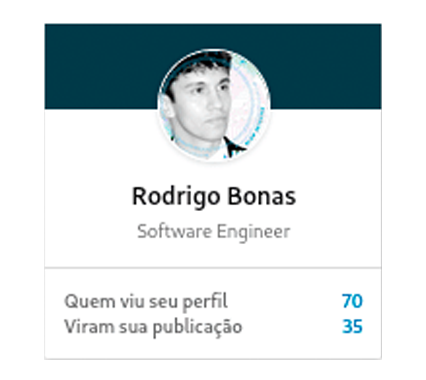
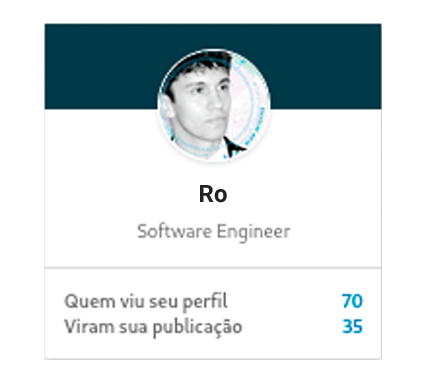
Updated links and user.

Changed region(s): [[0.3052, 0.4632, 0.7019, 0.5789]]

diff --git a/youtube/LinkedInClone/src/components/MobileHeader/index.tsx b/youtube/LinkedInClone/src/components/MobileHeader/index.tsx
@@ -5,7 +5,7 @@ import { Container, ProfileCircle, SearchInput, MessageIcon } from './styles';
 const MobileHeader: React.FC = () => {
   return (
     <Container>
-      <ProfileCircle src="https://github.com/BON4S.png" />
+      <ProfileCircle src="https://github.com/imtherouser.png" />
       <SearchInput placeholder="Pesquisar" />
       <MessageIcon />
     </Container>

diff --git a/youtube/LinkedInClone/src/components/DesktopHeader/index.tsx b/youtube/LinkedInClone/src/components/DesktopHeader/index.tsx
@@ -31,7 +31,7 @@ const DesktopHeader: React.FC = () => {
               <span>Notificações</span>
             </button>
             <button>
-              <ProfileCircle src="https://github.com/BON4s.png" />
+              <ProfileCircle src="https://github.com/imtherouser.png" />
               <span>
                 Eu <CaretDownIcon />
               </span>

diff --git a/youtube/LinkedInClone/src/components/LeftColumn/ProfilePanel/index.tsx b/youtube/LinkedInClone/src/components/LeftColumn/ProfilePanel/index.tsx
@@ -10,7 +10,7 @@ const ProfilePanel: React.FC = () => {
       <Container>
         <div className="profile-cover"></div>
         <img
-          src="https://github.com/BON4S.png"
+          src="https://github.com/imtherouser.png"
           alt="Avatar"
           className="profile-picture"
         />

diff --git a/readme.md b/readme.md
@@ -1,20 +1,24 @@
 <p align="center">
-  <a aria-label="MY_ROCKETSEAT_CODES" href="https://github.com/BON4S/MyRocketseatCodes#🚀">
+  <a aria-label="MY_ROCKETSEAT_CODES" href="https://github.com/imtherousers/MyRocketseatCodes#🚀">
     <img src="assets/MyRocketseatCodes.gif">
   </a>
 </p>
 
 <p align="center">
-  <a aria-label="MADE_BY_BON4S" href="https://github.com/BON4S/MyRocketseatCodes#🚀">
-    <img src="https://img.shields.io/badge/-MADE_BY_BON4S-7159c1?style=for-the-badge&labelColor=222222">
+  <a aria-label="MADE_BY_imtherousers" href="https://github.com/imtherousers/MyRocketseatCodes#🚀">
+    <img src="https://img.shields.io/badge/-MADE_BY_imtherousers-7159c1?style=for-the-badge&labelColor=222222">
   </a>
   <a aria-label="LESSONS_FROM_ROCKETSEAT" href="https://rocketseat.com.br/#🚀">
     <img alt="" src="https://img.shields.io/badge/LESSONS_FROM-Rocketseat_🚀-7159c1?style=for-the-badge&labelColor=222222">
   </a>
 </p>
 
+<br />
+
+<h3>This repository contains codes developed by the "imtherouser" through the content provided by the Rocketseat company.</h3>
+
 <p align="center">
-  <a aria-label="__dotted_line__" href="https://github.com/BON4S/MyRocketseatCodes#🚀">
+  <a aria-label="__dotted_line__" href="https://github.com/imtherousers/MyRocketseatCodes#🚀">
     <img src="assets/dotted-purple-line.png">
   </a>
 </p>
@@ -78,7 +82,7 @@
 </table>
 
 <p align="center">
-  <a aria-label="__dotted_line__" href="https://github.com/BON4S/MyRocketseatCodes#🚀">
+  <a aria-label="__dotted_line__" href="https://github.com/imtherousers/MyRocketseatCodes#🚀">
     <img src="assets/dotted-purple-line.png">
   </a>
 </p>
@@ -115,7 +119,7 @@
 </table>
 
 <p align="center">
-  <a aria-label="__dotted_line__" href="https://github.com/BON4S/MyRocketseatCodes#🚀">
+  <a aria-label="__dotted_line__" href="https://github.com/imtherousers/MyRocketseatCodes#🚀">
     <img src="assets/dotted-purple-line.png">
   </a>
 </p>
@@ -152,7 +156,7 @@
 </table>
 
 <p align="center">
-  <a aria-label="__dotted_line__" href="https://github.com/BON4S/MyRocketseatCodes#🚀">
+  <a aria-label="__dotted_line__" href="https://github.com/imtherousers/MyRocketseatCodes#🚀">
     <img src="assets/dotted-purple-line.png">
   </a>
 </p>
@@ -189,14 +193,14 @@
 </table>
 
 <p align="center">
-  <a aria-label="__dotted_line__" href="https://github.com/BON4S/MyRocketseatCodes#🚀">
+  <a aria-label="__dotted_line__" href="https://github.com/imtherousers/MyRocketseatCodes#🚀">
     <img src="assets/dotted-purple-line.png">
   </a>
 </p>
 
 ### 🟪 Useful Links
 
-↳ [Rocketseat - Me on Rocketseat's social network](https://app.rocketseat.com.br/me/bonas#🚀)
+↳ [Rocketseat - Me on Rocketseat's social network](https://app.rocketseat.com.br/me/imtherouser#🚀)
 
 ↳ [Rocketseat - Main page](https://rocketseat.com.br/#🚀)
 

diff --git a/bootcamp/GoStack11/GoBarber/readme.md b/bootcamp/GoStack11/GoBarber/readme.md
@@ -1,5 +1,5 @@
 <p align="center">
-  <a href="https://github.com/BON4S/bootcamp/GoStack11/GoBarber#🚀">
+  <a href="https://github.com/imtherouser/bootcamp/GoStack11/GoBarber#🚀">
     <img src="screenshots/GoBarber-banner.png">
   </a>
 </p>
@@ -68,13 +68,13 @@
 ### 🎓 Original GoBarber
 
 <p align="center">
-  <a href="https://github.com/BON4S/bootcamp/GoStack11/GoBarber#🚀">
+  <a href="https://github.com/imtherouser/bootcamp/GoStack11/GoBarber#🚀">
     <img src="screenshots/GoBarber-Screenshot-01.gif">
   </a>
 </p>
 
 <p align="center">
-  <a href="https://github.com/BON4S/bootcamp/GoStack11/GoBarber#🚀">
+  <a href="https://github.com/imtherouser/bootcamp/GoStack11/GoBarber#🚀">
     <img src="screenshots/GoBarber-Screenshot-02.png">
   </a>
 </p>
@@ -82,7 +82,7 @@
 ### 🎓 My steampunk login design on Figma
 
 <p align="center">
-  <a href="https://github.com/BON4S/bootcamp/GoStack11/GoBarber#🚀">
+  <a href="https://github.com/imtherouser/bootcamp/GoStack11/GoBarber#🚀">
     <img src="screenshots/SteampunkGoBarber-screen-01.png">
   </a>
 </p>
@@ -90,15 +90,15 @@
 ### 🎓 My alien Figma design
 
 <p align="center">
-  <a href="https://github.com/BON4S/bootcamp/GoStack11/GoBarber#🚀">
+  <a href="https://github.com/imtherouser/bootcamp/GoStack11/GoBarber#🚀">
     <img src="screenshots/AlienGoBarber-Screen-01.png">
   </a>
 </p>
 
 <p align="center">
-  <a href="https://github.com/BON4S/bootcamp/GoStack11/GoBarber#🚀">
+  <a href="https://github.com/imtherouser/bootcamp/GoStack11/GoBarber#🚀">
     <img src="screenshots/AlienGoBarber-Screen-02.png">
   </a>
 </p>
 
-[⇦ Back to the main page](https://github.com/BON4S/MyRocketseatCodes#🚀)
+[⇦ Back to the main page](https://github.com/imtherouser/MyRocketseatCodes#🚀)

diff --git a/events/NextLevelWeek/NLW01-Ecoleta/readme.md b/events/NextLevelWeek/NLW01-Ecoleta/readme.md
@@ -1,5 +1,5 @@
 <p align="center">
-  <a href="https://github.com/BON4S/MyRocketseatCodes/events/NextLevelWeek/NLW01-Ecoleta#🚀">
+  <a href="https://github.com/imtherouser/MyRocketseatCodes/events/NextLevelWeek/NLW01-Ecoleta#🚀">
     <img src="screenshots/Ecoleta.gif">
   </a>
 </p>
@@ -19,7 +19,7 @@
 ### 🟢 Result of my code following the original idea:
 
 <p align="center">
-  <a href="https://github.com/BON4S/MyRocketseatCodes/events/NextLevelWeek/NLW01-Ecoleta#🚀">
+  <a href="https://github.com/imtherouser/MyRocketseatCodes/events/NextLevelWeek/NLW01-Ecoleta#🚀">
     <img src="screenshots/original/ecoleta-screens.gif">
   </a>
 </p>
@@ -27,9 +27,9 @@
 ### 🟢 My implementation of a web user interface:
 
 <p align="center">
-  <a href="https://github.com/BON4S/MyRocketseatCodes/events/NextLevelWeek/NLW01-Ecoleta#🚀">
+  <a href="https://github.com/imtherouser/MyRocketseatCodes/events/NextLevelWeek/NLW01-Ecoleta#🚀">
     <img src="screenshots/webuserinterface/ecoleta-webuserinterface.gif">
   </a>
 </p>
 
-[⇦ Back to the main page](https://github.com/BON4S/MyRocketseatCodes#🚀)
+[⇦ Back to the main page](https://github.com/imtherouser/MyRocketseatCodes#🚀)

diff --git a/bootcamp/GoStack11/GitHubExplorer/readme.md b/bootcamp/GoStack11/GitHubExplorer/readme.md
@@ -1,5 +1,5 @@
 <p align="center">
-  <a href="https://github.com/BON4S/bootcamp/GoStack11/GitHubExplorer#🚀">
+  <a href="https://github.com/imtherouser/bootcamp/GoStack11/GitHubExplorer#🚀">
     <img src="screenshots/GitHubExplorer.gif">
   </a>
 </p>
@@ -13,7 +13,7 @@
 ### 🐙 Result of my code following the original idea:
 
 <p align="center">
-  <a href="https://github.com/BON4S/bootcamp/GoStack11/GitHubExplorer#🚀">
+  <a href="https://github.com/imtherouser/bootcamp/GoStack11/GitHubExplorer#🚀">
     <img src="screenshots/original/GitHubExplorer-original.gif">
   </a>
 </p>
@@ -21,9 +21,9 @@
 ### 🐙 My version of the app idea in a "file manager" style:
 
 <p align="center">
-  <a href="https://github.com/BON4S/bootcamp/GoStack11/GitHubExplorer#🚀">
+  <a href="https://github.com/imtherouser/bootcamp/GoStack11/GitHubExplorer#🚀">
     <img src="screenshots/filemanager/GitHubExplorer-filemanager.gif">
   </a>
 </p>
 
-[⇦ Back to the main page](https://github.com/BON4S/MyRocketseatCodes#🚀)
+[⇦ Back to the main page](https://github.com/imtherouser/MyRocketseatCodes#🚀)

diff --git a/youtube/LinkedInClone/readme.md b/youtube/LinkedInClone/readme.md
@@ -1,5 +1,5 @@
 <p align="center">
-  <a href="https://github.com/BON4S/youtube/LinkedInClone#🚀">
+  <a href="https://github.com/imtherouser/youtube/LinkedInClone#🚀">
     <img src="screenshots/LinkedInCloneBanner.gif">
   </a>
 </p>
@@ -15,9 +15,9 @@
 ### 🎓 UI clone with Shimmer Effect
 
 <p align="center">
-  <a href="https://github.com/BON4S/youtube/LinkedInClone#🚀">
+  <a href="https://github.com/imtherouser/youtube/LinkedInClone#🚀">
     <img src="screenshots/LinkedInClone.gif">
   </a>
 </p>
 
-[⇦ Back to the main page](https://github.com/BON4S/MyRocketseatCodes#🚀)
+[⇦ Back to the main page](https://github.com/imtherouser/MyRocketseatCodes#🚀)

diff --git a/events/SemanaOmniStack/SO11-BeTheHero/readme.md b/events/SemanaOmniStack/SO11-BeTheHero/readme.md
@@ -1,10 +1,10 @@
 <p align="center">
-  <a href="https://github.com/BON4S/events/SemanaOmniStack/SO11-BeTheHero#🚀">
+  <a href="https://github.com/imtherouser/events/SemanaOmniStack/SO11-BeTheHero#🚀">
     <img src="screenshots/BeTheHero.gif">
   </a>
 </p>
 
-[⇦ Back to the main page](https://github.com/BON4S/MyRocketseatCodes#🚀)
+[⇦ Back to the main page](https://github.com/imtherouser/MyRocketseatCodes#🚀)
 
 ### 🔴 Be The Hero
 
@@ -79,4 +79,4 @@
   </tr>
 </table>
 
-[⇦ Back to the main page](https://github.com/BON4S/MyRocketseatCodes#🚀)
+[⇦ Back to the main page](https://github.com/imtherouser/MyRocketseatCodes#🚀)
